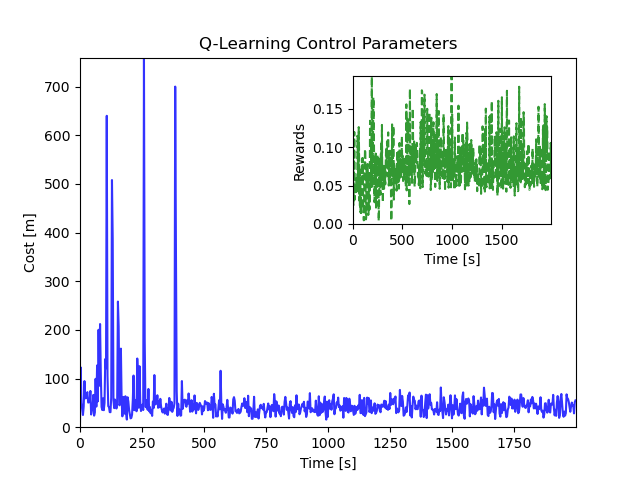
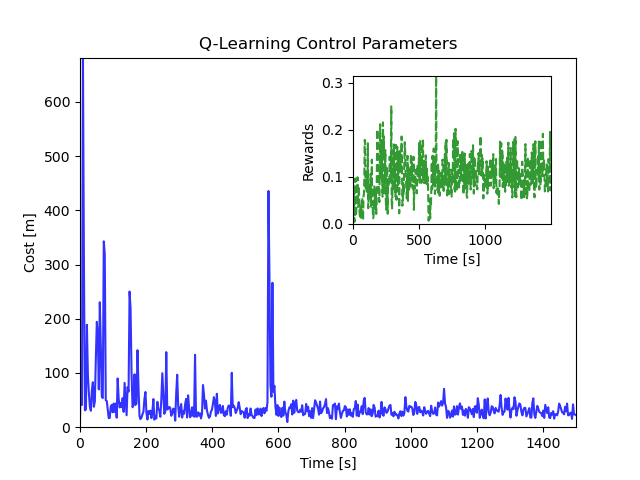
messing with trial counts

diff --git a/main.py b/main.py
@@ -32,10 +32,12 @@ from mpl_toolkits.axes_grid.inset_locator import (inset_axes, InsetPosition, mar
 # --------------------
  
 Ti = 0.0        # initial time
-Tf = 2000         # final time 
+Tf = 1500         # final time 
 Ts = 0.1        # sample time
 Tz = 0.005      # integration step size
-verbose = 1     # print stuff?
+verbose = 0     # print stuff?
+plotsave = 1    # save the plot?
+
 
 state   = np.array([1.9, 0.1, 1, 0.2, 0.3, 0.4])   # format: [x, xdot, y, ydot, z, zdot]
 inputs  = np.array([0.21, 0.15, 0.1])              # format: [xddot, yddot, zddot]
@@ -275,8 +277,12 @@ ani = animation.FuncAnimation(fig, update, np.arange(1, len(states_all)),interva
 #slow
 #ani2 = animation.FuncAnimation(fig, update, np.linspace(1, len(states_all), num=500, dtype=int),interval=15, blit=False)
 
-#ani.save('animation.gif', writer=writer, progress_callback = lambda i, n: print(f'Saving frame {i} of {n}'))
-#ani.save('animation.gif', writer=writer)
+
+if plotsave == 1:
+    if verbose == 1:
+        ani.save('animation.gif', writer=writer, progress_callback = lambda i, n: print(f'Saving frame {i} of {n}'))
+    else:
+        ani.save('animation.gif', writer=writer)
 
 
 #plt.show()

diff --git a/qLearnLib.py b/qLearnLib.py
@@ -15,7 +15,7 @@ import random
 #nState = 2          # number of states
 #nAction = 2         # number of actions
 #explore_rate = 0.8  # how often to explore, 0 to 1
-learn_rate = 0.2    # how much to accept new observations, alpha/lambda, 0.9
+learn_rate = 0.5    # how much to accept new observations, alpha/lambda, 0.9
 discount = 0.9      # balance immediate/future rewards, (gamma): 0.8 to 0.99
 
 
